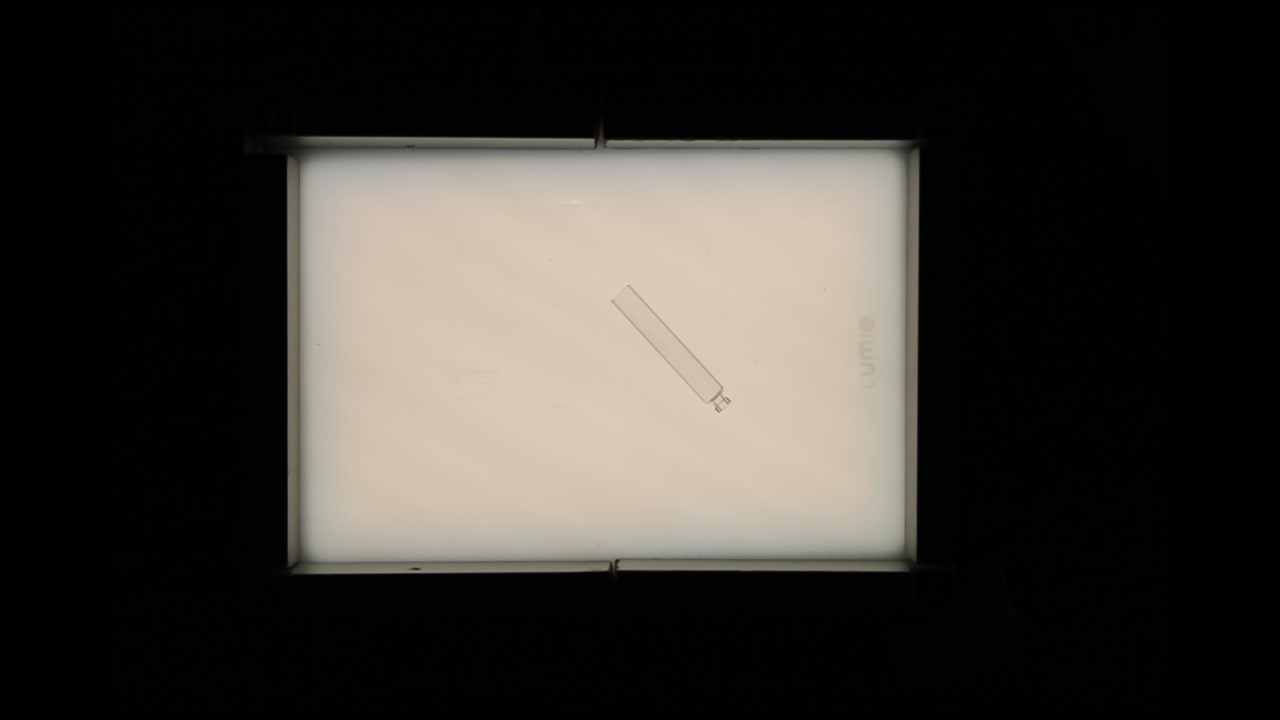
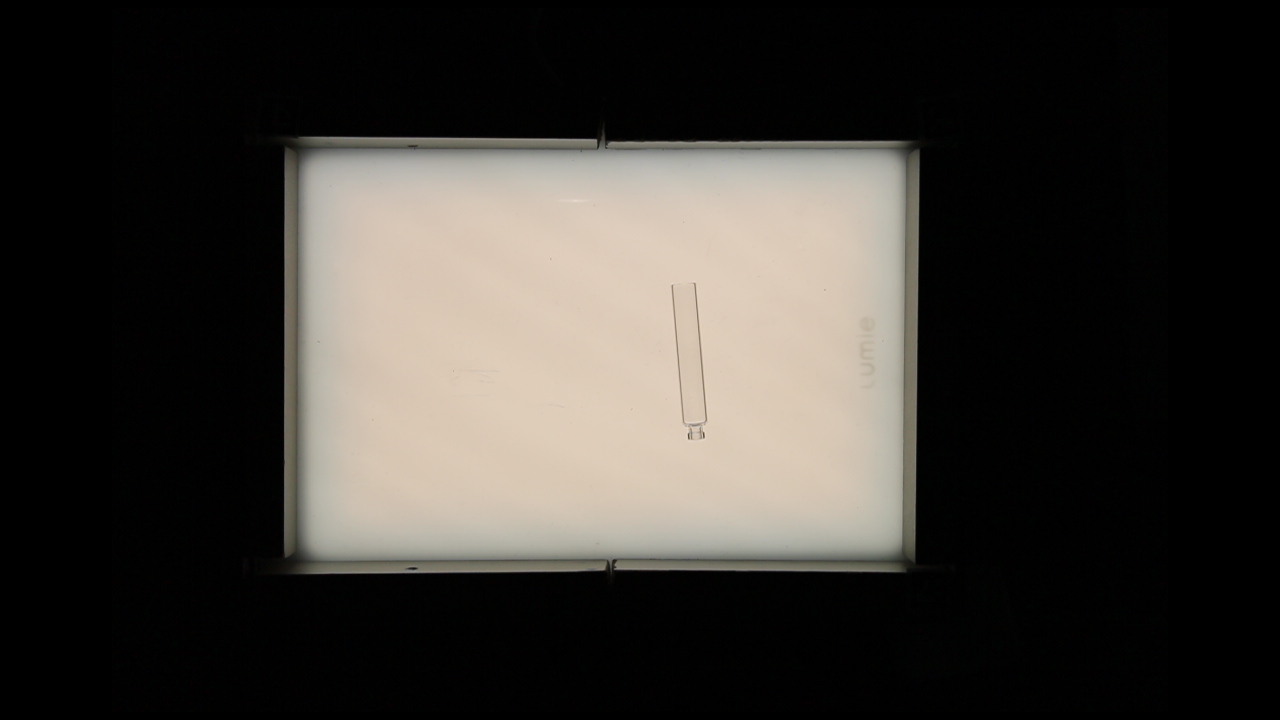
Consistent rotation

diff --git a/GlassSegmentV1/RobotLib.py b/GlassSegmentV1/RobotLib.py
@@ -110,7 +110,7 @@ def pickupCommand(x = 0.1,y = 0.1,z = -0.02,rx = 0,ry = 0,rz = 0):
 
     s = socket.socket(socket.AF_INET, socket.SOCK_STREAM)
     s.connect((rcfg.HOST_IP,30003))
-    z = 0.031
+    z = 0.0295
     t=robot.transform(x,y,z) #* Generate placement of the glass in robot frame
     cmdstring = 'movel(p['+str(t[0])+','+str(t[1])+','+str(t[2])+','+str(rx)+','+str(ry)+','+str(rz)+'],0.2,0.01)' + '\n'
     s.send(cmdstring.encode())
@@ -151,7 +151,6 @@ def handoffCommand(handoffPos):
     s.send(cmdstring.encode())
     #time.sleep(5)
     #s.close()
-    q = get_URdata(True)
     #s = socket.socket(socket.AF_INET, socket.SOCK_STREAM)
     #s.connect((rcfg.HOST_IP,30003))
     #cmdstring = 'movej(['+str(q[0])+','+str(q[1])+','+str(q[2])+','+str(q[3])+','+str(q[4])+','+str(0)+'],1.1,0.5)' + '\n'
@@ -175,12 +174,16 @@ def handoffCommand(handoffPos):
     cmdstring = 'movej(p['+str(t[0])+','+str(t[1])+','+str(t[2])+','+str(rx)+','+str(ry)+','+str(rz)+'],1.1,0.7)' + '\n'
     s.send(cmdstring.encode())
     time.sleep(4)
-    cmdstring = 'movel(p['+str(t[0])+','+str(t[1])+','+str(t[2])+','+str(rx)+','+str(ry)+','+str(rz)+'],0.6,0.07)' + '\n'
+    q = get_URdata(True)
+    cmdstring = 'movej(['+str(q[0])+','+str(q[1])+','+str(q[2])+','+str(q[3])+','+str(q[4])+','+str(0.65)+'],1.1,0.5)' + '\n'
+    #cmdstring = 'movel(p['+str(t[0])+','+str(t[1])+','+str(t[2])+','+str(rx)+','+str(ry)+','+str(rz)+'],0.6,0.07)' + '\n'
     s.send(cmdstring.encode())
     #s.close()
-    [x_robot, y_robot, z_robot, rz_robot] = get_URdata()
-    while(not(x_robot >= x - 0.01 and x_robot <= x + 0.01 and y_robot >= y - 0.005 and y_robot <= y + 0.005 and z_robot >= z - 0.01 and z_robot <= z + 0.01 and rz_robot >= rz - 0.09 and rz_robot <= rz + 0.09)):
-        [x_robot, y_robot, z_robot, rz_robot] = get_URdata()
+    [x_robot, y_robot, z_robot, _] = get_URdata()
+    q = get_URdata(True)
+    while(not(x_robot >= x - 0.01 and x_robot <= x + 0.01 and y_robot >= y - 0.005 and y_robot <= y + 0.005 and z_robot >= z - 0.01 and z_robot <= z + 0.01 and q[5] >= 0.65 - 0.09 and q[5] <= 0.65 + 0.09)):
+        [x_robot, y_robot, z_robot, _] = get_URdata()
+        q = get_URdata(True)
 
     gripperOpen()
 

diff --git a/GlassSegmentV1/LineSearchLib.py b/GlassSegmentV1/LineSearchLib.py
@@ -321,7 +321,7 @@ def LineExtend(glassSides,lineLength=80):
            
     return glassSides
 
-def grabberPoint(glassSides, lineLength=22):
+def grabberPoint(glassSides, UpDown, lineLength=22):
     # ! Format of sides:
     # * line-pair = |slope1 = a rad | x1start | y1start | x1end | y1end | hyp | slope2 = b rad | x2start | y2start | x2end | y2end | hyp |
     grabPoint=np.empty([6])
@@ -365,6 +365,9 @@ def grabberPoint(glassSides, lineLength=22):
     grabPoint[4] = (grabPoint[0] + grabPoint[2]) / 2
     grabPoint[5] = (grabPoint[1] + grabPoint[3]) / 2
     grabPointAngle = math.atan(m) - math.pi / 2
+    if UpDown:
+        grabPointAngle += math.pi
+    
     return grabPoint, grabPointAngle
 
 
@@ -443,7 +446,7 @@ def templatematch(img, template, houghLocation, h_steps = 40, w_steps = 40):
         max_w : max_w + Overlay.shape[1]] = Overlay
         cv2.putText(final, 'Orientation: Down', (0,30), cv2.FONT_HERSHEY_SIMPLEX, 0.5, (0, 255, 0), 1, cv2.LINE_AA)
 
-    return final
+    return final, UpDown
 
 
 def shiftIdx(array):

diff --git a/GlassSegmentV1/GlassSegmentV1.py b/GlassSegmentV1/GlassSegmentV1.py
@@ -108,11 +108,11 @@ while True:
             statemsg = False
             if edges_hough is not None:
                 houghLocation = np.ndarray.flatten(edges_hough)
-                final = ls.templatematch(img_binary, template, houghLocation)
+                final, UpDown = ls.templatematch(img_binary, template, houghLocation)
                 if final is not None:
                     statemsg = False
                     k = -1
-                    grabPoints, grabAngle = ls.grabberPoint(houghLocation)
+                    grabPoints, grabAngle = ls.grabberPoint(houghLocation, UpDown)
                     grabPoints = np.around(grabPoints)
                     grabPoints = grabPoints.astype(int)
                     cv2.circle(final, (grabPoints[0], grabPoints[1]), 3, color = (0,255,0), thickness=2)
